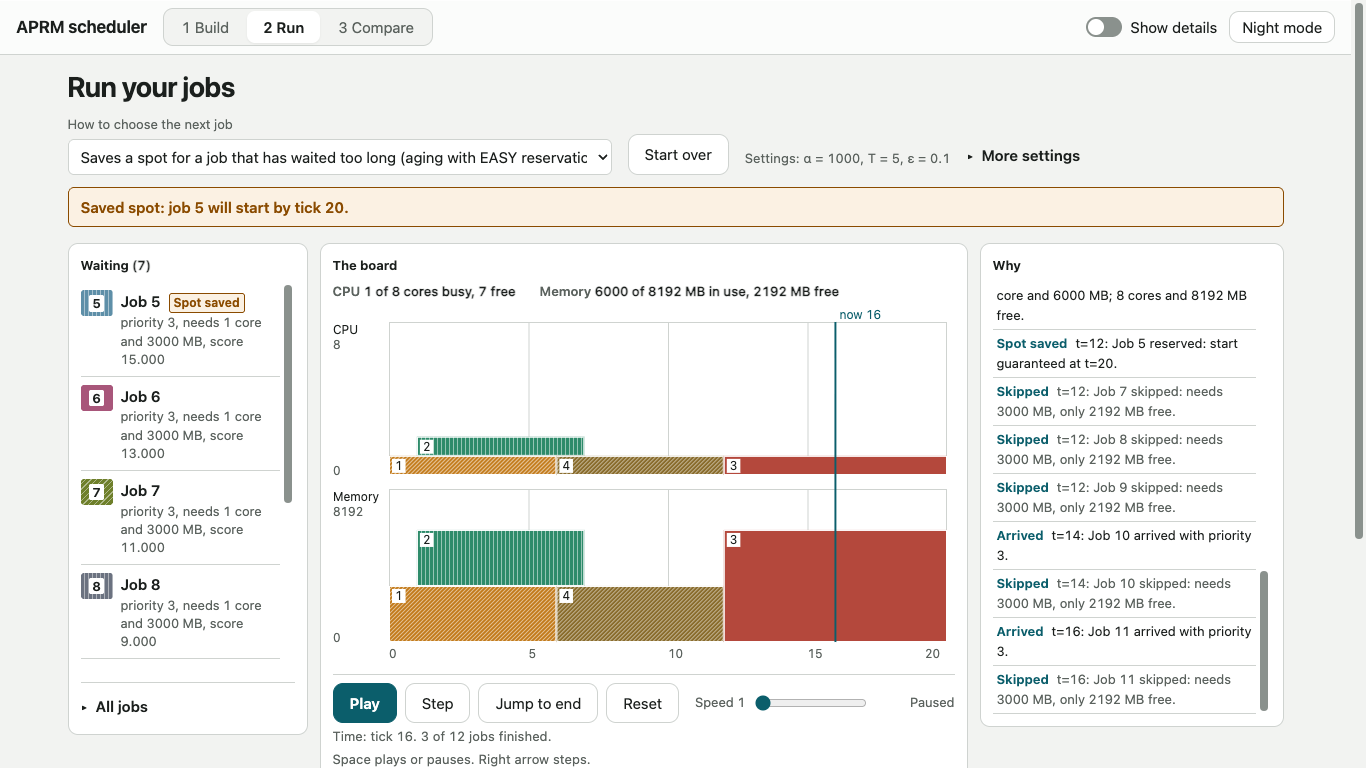
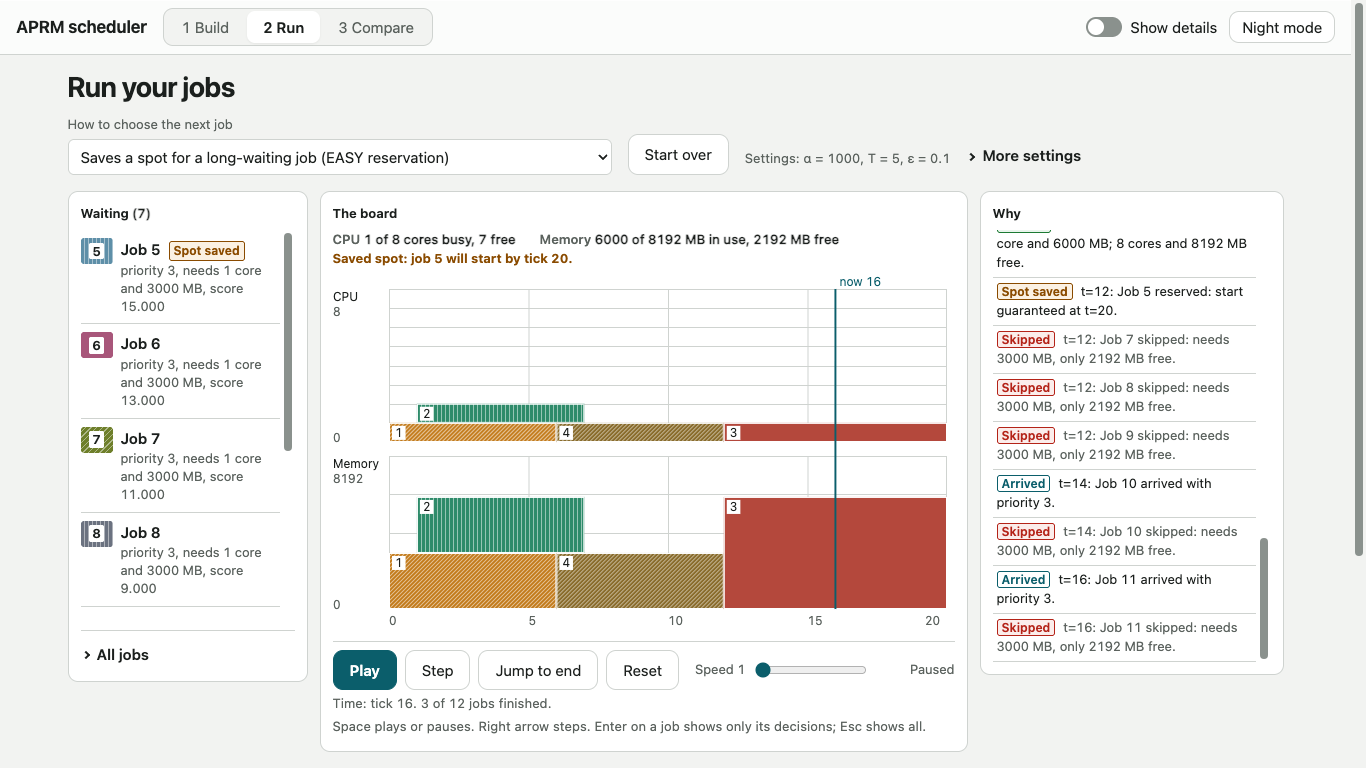
Run: card lands when its magnet arrives, coloured log stamps, keyboard job lists, printed slots
Review fixes: hold the started card off the board until the magnet lands on the memory lane; stamps in green, red and amber with their words; one Tab stop per list with arrows, Enter and Esc; slot rows in the lanes; drawn chevron; reservation in the board header; tray rebuilt only on change; hatching capped for huge runs.

diff --git a/web/js/player.js b/web/js/player.js
@@ -90,6 +90,7 @@
 
   /* Destroy the live simulation if there is one. Never throws. O(1). */
   function destroyRun() {
+    stopFlights();
     if (run !== null) {
       var h = run.handle;
       run = null;
@@ -140,7 +141,7 @@
 
   function view() {
     return { state: run ? run.state : null, jobs: run ? run.jobs : [], bars: run ? run.bars : {},
-      selected: selected, events: run ? run.events : 0 };
+      selected: selected, events: run ? run.events : 0, hold: held };
   }
 
   var METRIC_KEYS = ['avg_wait', 'max_wait', 'avg_turnaround', 'weighted_completion', 'makespan', 'util_cpu', 'util_mem'];
@@ -192,6 +193,7 @@
     line('res-mem-text', 'mem', 'run.res.mem.text');
   }
 
+  var lastTraySig = '';
   var TRAY_ROWS = 40;      /* cards on the page; the count above always gives the true number */
 
   /* A job's magnet: colour, hatch and stamped number. Bigger for a higher priority (a fixed ramp). */
@@ -212,9 +214,14 @@
   function drawTray() {
     var list = byId('tray-list');
     if (!list) { return; }
-    clear(list);
     var w = run && run.state ? run.state.waiting : [];
     var saved = run && run.state && run.state.reservation ? run.state.reservation.id : null;
+    /* Rebuild only when something shown changed, so a click or keyboard focus survives a playing run. */
+    var sig = selected + '|' + saved + '|' + w.length;
+    for (var s = 0; s < w.length && s < TRAY_ROWS; s++) { sig += ',' + w[s].id + ':' + w[s].score; }
+    if (sig === lastTraySig) { return; }
+    lastTraySig = sig;
+    clear(list);
     text('tray-count', '(' + w.length + ')');
     var empty = byId('tray-empty');
     if (empty) { empty.hidden = w.length > 0; }
@@ -224,6 +231,9 @@
       var li = document.createElement('li');
       li.setAttribute('data-job', String(j.id));
       li.setAttribute('class', 'tray-card' + (selected === j.id ? ' selected' : ''));
+      li.setAttribute('tabindex', i === 0 ? '0' : '-1');
+      li.setAttribute('role', 'button');
+      li.setAttribute('aria-pressed', selected === j.id ? 'true' : 'false');
       li.appendChild(magnet(j.id, j.priority));
       var body = document.createElement('span');
       body.setAttribute('class', 'tray-body');
@@ -254,16 +264,23 @@
   }
 
   var flights = 0;
+  var flightStops = [];
+  var held = {};           /* job id -> true while its magnet is in the air; the board leaves its card out */
 
-  /* The signature moment: when the engine starts a job, its magnet travels from the tray to its card
-   * on the board. Purely visual, skipped under reduced motion, at high speed and when the jump runs. */
+  /* True when a started card may travel: motion allowed, speed low, room for another flight. */
+  function canFly() {
+    return !!(APRM.motion && !APRM.motion.reduced() && speed <= 3 && status !== 'jumping' && flights < 3);
+  }
+
+  /* The signature moment: when the engine starts a job, its card is held off the board while its
+   * magnet travels from the tray to the memory lane, then the card lands. Purely visual. */
   function flyCard(id, from) {
     var canvasEl = byId('run-canvas');
-    if (!from || !canvasEl || flights >= 3 || !APRM.motion || APRM.motion.reduced() || speed > 3 || status === 'jumping') { return; }
-    var regs = canvasEl.__regions || [];
+    var regs = canvasEl && canvasEl.__regions ? canvasEl.__regions : [];
     var reg = null;
-    for (var i = 0; i < regs.length && !reg; i++) { if (regs[i].id === id) { reg = regs[i]; } }
-    if (!reg || typeof canvasEl.getBoundingClientRect !== 'function' || !document.body) { return; }
+    for (var i = 0; i < regs.length; i++) { if (regs[i].id === id && (regs[i].lane === 'mem' || !reg)) { reg = regs[i]; } }
+    var land = function () { delete held[id]; if (run) { APRM.canvas.draw(canvasEl, view()); } };
+    if (!reg || typeof canvasEl.getBoundingClientRect !== 'function' || !document.body) { land(); return; }
     var box = canvasEl.getBoundingClientRect();
     var job = null;
     for (var k = 0; k < run.jobs.length; k++) { if (run.jobs[k].id === id) { job = run.jobs[k]; } }
@@ -273,10 +290,27 @@
     el.style.top = from.top + 'px';
     document.body.appendChild(el);
     flights++;
-    var dx = box.left + reg.x - from.left, dy = box.top + reg.y - from.top;
-    APRM.motion.animateValue(0, 1, { response: 0.28 }, function (t) {
+    var dx = box.left + reg.x + reg.w / 2 - from.left - from.width / 2;
+    var dy = box.top + reg.y + reg.h / 2 - from.top - from.height / 2;
+    var finish = function () {
+      flights--;
+      if (el.parentNode) { el.parentNode.removeChild(el); }
+      var at = flightStops.indexOf(stop);
+      if (at >= 0) { flightStops.splice(at, 1); }
+      land();
+    };
+    var cancel = APRM.motion.animateValue(0, 1, { response: 0.28 }, function (t) {
       el.style.transform = 'translate(' + (dx * t) + 'px,' + (dy * t) + 'px)';
-    }, function () { flights--; if (el.parentNode) { el.parentNode.removeChild(el); } });
+    }, finish);
+    function stop() { cancel(); finish(); }
+    flightStops.push(stop);
+  }
+
+  /* Remove any magnet still in the air (a reset or a new run mid-flight). */
+  function stopFlights() {
+    var all = flightStops.slice();
+    flightStops.length = 0;
+    for (var i = 0; i < all.length; i++) { all[i](); }
   }
 
   /* Tray positions before a redraw, so a started card can fly from where it was. O(cards shown). */
@@ -325,7 +359,14 @@
 
   /* Redraw every view from the remembered engine answers. O(shown rows + jobs). */
   function render() {
-    var from = run && run.justStarted.length > 0 ? trayRects() : null;
+    var from = run && run.justStarted.length > 0 && canFly() ? trayRects() : null;
+    var flying = [];
+    if (from) {
+      for (var g = 0; g < run.justStarted.length; g++) {
+        var startedId = run.justStarted[g];
+        if (from[startedId] && flying.length + flights < 3) { held[startedId] = true; flying.push(startedId); }
+      }
+    }
     drawTray();
     text('run-clock', clockText());
     text('run-status', copyText('status.' + status, status));
@@ -345,10 +386,8 @@
     drawReservation();
     drawSettingsLine();
     highlightJobList();
-    if (run && from) {
-      for (var f = 0; f < run.justStarted.length; f++) { flyCard(run.justStarted[f], from[run.justStarted[f]]); }
-      run.justStarted = [];
-    } else if (run) { run.justStarted = []; }
+    if (run) { run.justStarted = []; }
+    for (var f = 0; f < flying.length; f++) { flyCard(flying[f], from[flying[f]]); }
     updateButtons();
     if (status !== 'playing') { refreshAddForm(); }
   }
@@ -685,6 +724,7 @@
         var id = t && t !== tray && t.getAttribute ? t.getAttribute('data-job') : null;
         if (id !== null && id !== undefined) { select(Number(id) === selected ? null : Number(id)); }
       });
+      if (APRM.keys) { APRM.keys.rovingList(tray, function (id) { select(id === selected ? null : id); }); }
     }
     var jl = byId('job-list');
     if (jl) {

diff --git a/web/css/components.css b/web/css/components.css
@@ -92,8 +92,8 @@ td.num-cell, th.num-cell { text-align: right; }
 details.disclosure { border-top: 1px solid var(--border); margin-top: var(--s-4); padding-top: var(--s-2); }
 details.disclosure > summary { cursor: pointer; font-weight: 600; padding: var(--s-1) 0; list-style: none; }
 details.disclosure > summary::-webkit-details-marker { display: none; }
-details.disclosure > summary::before { content: "\25B8"; display: inline-block; margin-right: var(--s-2); transition: transform var(--move) var(--ease); }
-details.disclosure[open] > summary::before { transform: rotate(90deg); }
+details.disclosure > summary::before { content: ""; display: inline-block; width: 0.4em; height: 0.4em; border-right: 2px solid currentColor; border-bottom: 2px solid currentColor; transform: rotate(-45deg); margin: 0 var(--s-2) 0.1em 2px; transition: transform var(--move) var(--ease); }
+details.disclosure[open] > summary::before { transform: rotate(45deg); }
 
 /* Switch ("Show details") */
 .switch { display: inline-flex; align-items: center; gap: var(--s-2); cursor: pointer; }
@@ -129,14 +129,14 @@ html[data-details="off"] .detail-only { display: none; }
 
 /* Run page: the planning board */
 .run-setup { display: flex; flex-wrap: wrap; align-items: flex-end; gap: var(--s-2) var(--s-4); margin-top: var(--s-3); }
-.run-choice { flex: 1 1 22rem; max-width: 34rem; }
+.run-choice { flex: 1 1 20rem; max-width: 34rem; }
 .run-choice .label { display: block; font-size: var(--fs-caption); color: var(--muted); margin-bottom: var(--s-1); }
 .run-setup .hint { flex: 0 1 auto; margin: 0 0 var(--s-2); }
 .run-setup details.disclosure { flex: 0 1 auto; margin: 0 0 var(--s-1); padding: 0; border: 0; }
 .run-setup details.disclosure[open] { flex: 1 1 100%; }
 .settings-grid { display: grid; gap: var(--s-4); grid-template-columns: repeat(auto-fit, minmax(14rem, 1fr)); padding: var(--s-2) 0; }
 .settings-grid .label { display: block; font-size: var(--fs-caption); color: var(--muted); margin-bottom: var(--s-1); }
-.reserve-card { margin-top: var(--s-3); padding: var(--s-2) var(--s-3); border: 1px solid var(--amber); border-radius: var(--r-1); color: var(--amber); background: var(--warn-bg); font-weight: 600; }
+.board-lines .reserve-line { color: var(--amber); font-weight: 650; }
 .board-grid { margin-top: var(--s-4); }
 .module { position: relative; background: var(--surface); border: 1px solid var(--border); border-radius: var(--r-2); padding: var(--s-3); min-width: 0; }
 .module > .tab { font-size: var(--fs-caption); line-height: var(--lh-caption); font-weight: 650; margin: 0 0 var(--s-2); color: var(--text); }
@@ -160,7 +160,11 @@ html[data-details="off"] .detail-only { display: none; }
 .magnet-size-m { min-width: 2.125rem; height: 1.625rem; }
 .magnet-size-l { min-width: 2.625rem; height: 2rem; }
 .magnet.flying { position: fixed; z-index: 40; pointer-events: none; will-change: transform; box-shadow: var(--shadow); }
-.why-kind { font-weight: 650; color: var(--accent); margin-right: var(--s-2); }
+.why-kind { display: inline-block; font-size: 0.75rem; line-height: 1.3; font-weight: 650; padding: 0 var(--s-1); border: 1px solid var(--muted); border-radius: 3px; color: var(--muted); margin-right: var(--s-2); }
+.kind-start, .kind-backfill { border-color: var(--green); color: var(--green); background: var(--ok-bg); }
+.kind-skip { border-color: var(--red); color: var(--red); background: var(--error-bg); }
+.kind-reserve { border-color: var(--amber); color: var(--amber); background: var(--warn-bg); }
+.kind-arrive, .kind-batch_select, .kind-promote_info { border-color: var(--accent); color: var(--accent); }
 .why-raw { color: var(--muted); margin-right: var(--s-2); }
 .metrics-list { list-style: none; margin: 0; padding: 0; display: grid; gap: var(--s-1) var(--s-6); grid-template-columns: repeat(auto-fit, minmax(19rem, 1fr)); }
 #app-footer { margin-top: var(--s-4); }

diff --git a/web/js/canvas.js b/web/js/canvas.js
@@ -12,6 +12,7 @@
 
   var APRM = (window.APRM = window.APRM || {});
 
+  var HATCH_MAX = 300;           /* above this, cards are slivers: hatching costs a clip per card per frame */
   var HEIGHT = 360;              /* css pixels */
   var MARGIN = 8;
   var LABEL_W = 56;              /* width of the "CPU" / "Memory" labels */
@@ -97,9 +98,8 @@
   }
 
   /* One lane's cards as rectangles. key is 'cpu' or 'mem'. Time runs left to right on the shared axis. */
-  function laneCards(view, key, cap, lane, sx, now) {
-    var byId = {}, list = [], i;
-    for (i = 0; i < view.jobs.length; i++) { byId[view.jobs[i].id] = view.jobs[i]; }
+  function laneCards(view, byId, key, cap, lane, sx, now) {
+    var list = [], i;
     var ids = Object.keys(view.bars);
     for (i = 0; i < ids.length; i++) {
       var b = view.bars[ids[i]], job = byId[ids[i]];
@@ -138,8 +138,10 @@
     var sx = function (t) { return x + (t / tmax) * gw; };
     var cpu = { key: 'cpu', cap: st.cap.cpu, x: x, y: TOP, w: gw, h: laneH };
     var mem = { key: 'mem', cap: st.cap.mem, x: x, y: TOP + laneH + GAP, w: gw, h: laneH };
-    cpu.cards = laneCards(view, 'cpu', st.cap.cpu, cpu, sx, st.now);
-    mem.cards = laneCards(view, 'mem', st.cap.mem, mem, sx, st.now);
+    var byId = {};
+    for (k = 0; k < view.jobs.length; k++) { byId[view.jobs[k].id] = view.jobs[k]; }
+    cpu.cards = laneCards(view, byId, 'cpu', Math.max(1, st.cap.cpu), cpu, sx, st.now);
+    mem.cards = laneCards(view, byId, 'mem', Math.max(1, st.cap.mem), mem, sx, st.now);
     out.lanes = [cpu, mem];
     out.tmax = tmax;
     out.nowX = sx(st.now);
@@ -188,6 +190,9 @@
       ctx.strokeStyle = col.border; ctx.lineWidth = 1;
       ctx.beginPath();
       for (var t = lay.step; t < lay.tmax; t += lay.step) { ctx.moveTo(lay.sx(t) + 0.5, lane.y); ctx.lineTo(lay.sx(t) + 0.5, lane.y + lane.h); }
+      /* the printed slots: one row per core on a small machine, quarters otherwise */
+      var rows = lane.cap <= 32 ? lane.cap : 4;
+      for (var r = 1; r < rows; r++) { var ry = Math.round(lane.y + (r / rows) * lane.h) + 0.5; ctx.moveTo(lane.x, ry); ctx.lineTo(lane.x + lane.w, ry); }
       ctx.stroke();
       ctx.strokeRect(lane.x + 0.5, lane.y + 0.5, lane.w - 1, lane.h - 1);
       text(lane.key === 'cpu' ? 'CPU' : 'Memory', 0, lane.y + 12, LABEL_W - 4, col.text);
@@ -195,9 +200,11 @@
       text('0', 0, lane.y + lane.h, LABEL_W - 4, col.muted);
       for (var c = 0; c < lane.cards.length; c++) {
         var card = lane.cards[c];
+        regions.push({ x: card.x, y: card.y, w: card.w, h: card.h, id: card.id, lane: lane.key });
+        if (view.hold && view.hold[card.id]) { continue; }     /* its magnet is still on the way here */
         ctx.fillStyle = col.jobs[paletteIndex(card.id)];
         ctx.fillRect(card.x, card.y, card.w, card.h);
-        drawHatch(ctx, card.id, card.x, card.y, card.w, card.h, col.panel);
+        if (lane.cards.length <= HATCH_MAX) { drawHatch(ctx, card.id, card.x, card.y, card.w, card.h, col.panel); }
         ctx.strokeStyle = col.panel; ctx.lineWidth = 1;
         ctx.strokeRect(card.x + 0.5, card.y + 0.5, Math.max(0, card.w - 1), Math.max(0, card.h - 1));
         if (card.w >= 22 && card.h >= 16) {
@@ -208,7 +215,6 @@
           text(label, card.x + 6, card.y + 14, card.w - 10, col.text);
         }
         if (sel === card.id) { ctx.strokeStyle = col.text; ctx.lineWidth = 2; ctx.strokeRect(card.x, card.y, card.w, card.h); }
-        regions.push({ x: card.x, y: card.y, w: card.w, h: card.h, id: card.id });
       }
     }
 

diff --git a/web/js/keys.js b/web/js/keys.js
@@ -19,6 +19,7 @@
     if (!target || !target.tagName) { return false; }
     var tag = String(target.tagName).toLowerCase();
     if (tag === 'input' || tag === 'textarea' || tag === 'select' || tag === 'button' || tag === 'summary' || tag === 'a') { return true; }
+    if (typeof target.getAttribute === 'function' && target.getAttribute('role') === 'button') { return true; }
     return !!target.isContentEditable;
   }
 
@@ -28,6 +29,7 @@
     if (inControl(ev.target)) { return null; }
     if (ev.key === ' ' || ev.code === 'Space') { return 'toggle'; }
     if (ev.key === 'ArrowRight') { return 'step'; }
+    if (ev.key === 'Escape') { return 'clear'; }
     return null;
   }
 
@@ -41,6 +43,7 @@
       return true;
     }
     if (action === 'step') { return APRM.player.stepOnce(); }
+    if (action === 'clear') { APRM.player.select(null); return true; }
     return false;
   }
 
@@ -57,5 +60,26 @@
     document.addEventListener('keydown', onKeyDown);
   }
 
-  APRM.keys = { actionFor: actionFor, inControl: inControl, perform: perform, mount: mount };
+  /* Keyboard for a list of job rows: one Tab stop for the whole list (the row with tabindex 0), up and
+   * down arrows move between rows, Enter or Space picks. onPick gets the row's job number. O(1) per key. */
+  function rovingList(list, onPick) {
+    list.addEventListener('keydown', function (ev) {
+      var row = ev.target;
+      if (!row || typeof row.getAttribute !== 'function' || row.getAttribute('data-job') === null) { return; }
+      if (ev.key === 'Enter' || ev.key === ' ') {
+        onPick(Number(row.getAttribute('data-job')));
+        if (typeof ev.preventDefault === 'function') { ev.preventDefault(); }
+      } else if (ev.key === 'ArrowDown' || ev.key === 'ArrowUp') {
+        var next = ev.key === 'ArrowDown' ? row.nextElementSibling : row.previousElementSibling;
+        if (next && typeof next.focus === 'function') {
+          row.setAttribute('tabindex', '-1');
+          next.setAttribute('tabindex', '0');
+          next.focus();
+        }
+        if (typeof ev.preventDefault === 'function') { ev.preventDefault(); }
+      }
+    });
+  }
+
+  APRM.keys = { actionFor: actionFor, inControl: inControl, perform: perform, mount: mount, rovingList: rovingList };
 })();

diff --git a/web/js/whylog.js b/web/js/whylog.js
@@ -66,7 +66,7 @@
     for (var i = 0; i < shown.length; i++) {
       var li = document.createElement('li');
       var kind = document.createElement('span');
-      kind.setAttribute('class', 'why-kind');
+      kind.setAttribute('class', 'why-kind kind-' + String(shown[i].kind).toLowerCase());
       kind.textContent = words('kind.' + shown[i].kind, String(shown[i].kind));
       li.appendChild(kind);
       var raw = document.createElement('span');
@@ -76,6 +76,8 @@
       li.appendChild(document.createTextNode(lineText(shown[i])));
       li.setAttribute('class', 'why-' + String(shown[i].kind).toLowerCase() + (shown[i].job === selected ? ' why-selected' : ''));
       li.setAttribute('data-job', String(shown[i].job));
+      li.setAttribute('role', 'button');
+      li.setAttribute('tabindex', i === shown.length - 1 ? '0' : '-1');
       list.appendChild(li);
     }
     if (selected === null || selected === undefined) { list.scrollTop = list.scrollHeight || 0; }   /* newest line in view */
@@ -100,6 +102,7 @@
         if (id !== null && id !== '' && APRM.player) { APRM.player.select(Number(id)); }
       });
     }
+    if (list && APRM.keys) { APRM.keys.rovingList(list, function (id) { if (APRM.player) { APRM.player.select(id); } }); }
     var btn = document.getElementById('whylog-clear');
     if (btn) { btn.addEventListener('click', function () { if (APRM.player) { APRM.player.select(null); } }); }
   }

diff --git a/web/index.html b/web/index.html
@@ -154,7 +154,6 @@
       </details>
     </div>
     <p id="run-error" class="field-error" role="alert" hidden></p>
-    <div id="reserve-card" class="reserve-card" role="status" hidden></div>
 
     <main id="app-main" class="board-grid" data-engine="loading" data-mode="build" hidden>
       <section class="module tray" aria-labelledby="tray-title">
@@ -175,6 +174,7 @@
         <div class="board-lines" role="group" aria-label="Machine resources">
           <p><span class="res-name" data-copy="run.res.cpu">CPU</span> <span id="res-cpu-text" class="num"></span></p>
           <p><span class="res-name" data-copy="run.res.mem">Memory</span> <span id="res-mem-text" class="num"></span></p>
+          <p id="reserve-card" class="reserve-line" role="status" hidden></p>
         </div>
         <p id="canvas-empty" class="empty" data-copy="run.canvas.empty">Nothing to show yet. Add jobs, then press Run.</p>
         <canvas id="run-canvas" class="run-canvas" width="640" height="420" role="img" aria-label="Planning board: CPU and memory lanes over time, one card per started job" hidden></canvas>

diff --git a/web/js/copy.js b/web/js/copy.js
@@ -30,7 +30,7 @@
     'theme.night': 'Night mode',
     'theme.day': 'Day mode',
     'theme.hint': 'Switch between a light and a dark page.',
-    'keys.hint': 'Space plays or pauses. Right arrow steps.',
+    'keys.hint': 'Space plays or pauses. Right arrow steps. Enter on a job shows only its decisions; Esc shows all.',
     'noscript': 'This page needs JavaScript. The recorded demo video is the fallback.',
 
     'build.heading': 'Let’s schedule some jobs',
@@ -135,7 +135,7 @@
     'policy.priority': 'Highest priority first (priority)',
     'policy.sjf': 'Shortest job first (SJF)',
     'policy.aging': 'Waiting jobs gain priority over time (aging)',
-    'policy.aging_reserve': 'Saves a spot for a job that has waited too long (aging with EASY reservation)',
+    'policy.aging_reserve': 'Saves a spot for a long-waiting job (EASY reservation)',
     'policy.knapsack': 'Best mix of waiting jobs (knapsack)',
     'metric.avg_wait': 'Average wait',
     'metric.max_wait': 'Longest wait',
